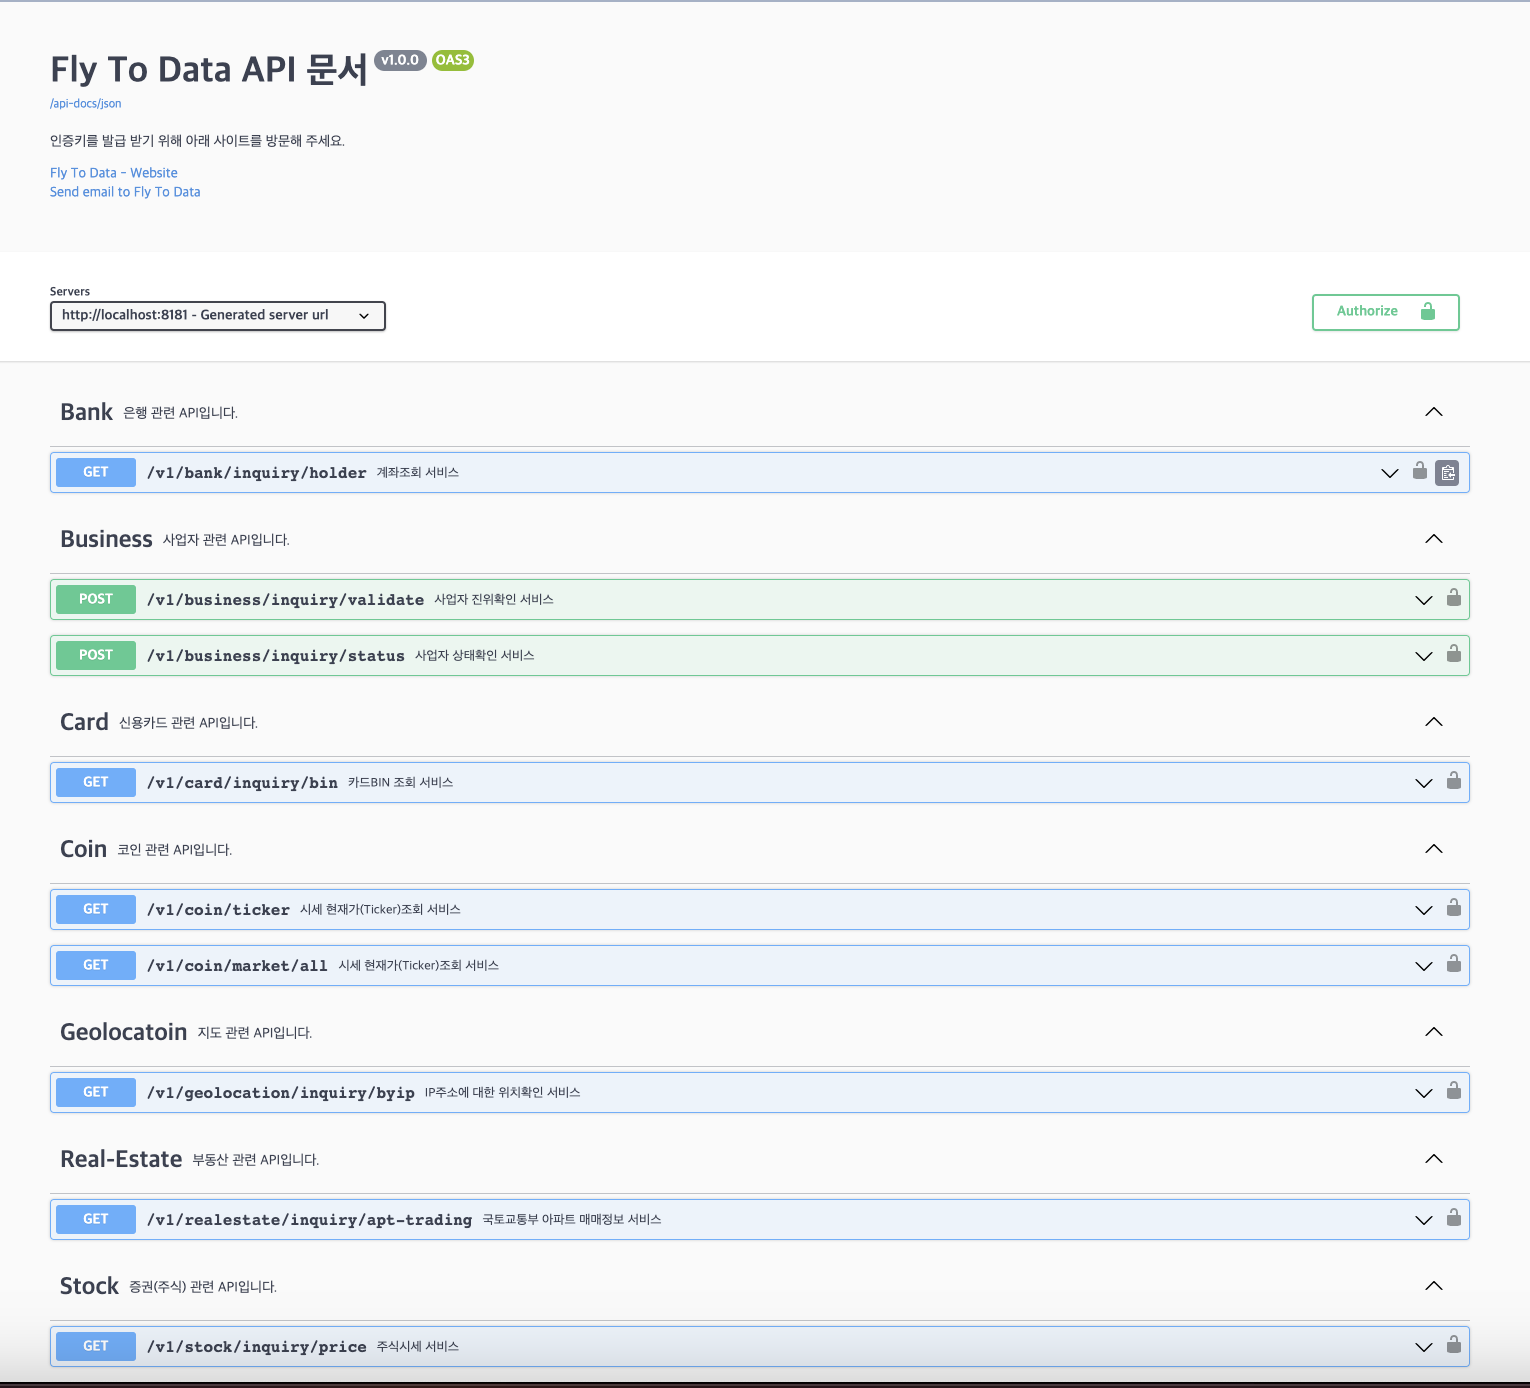
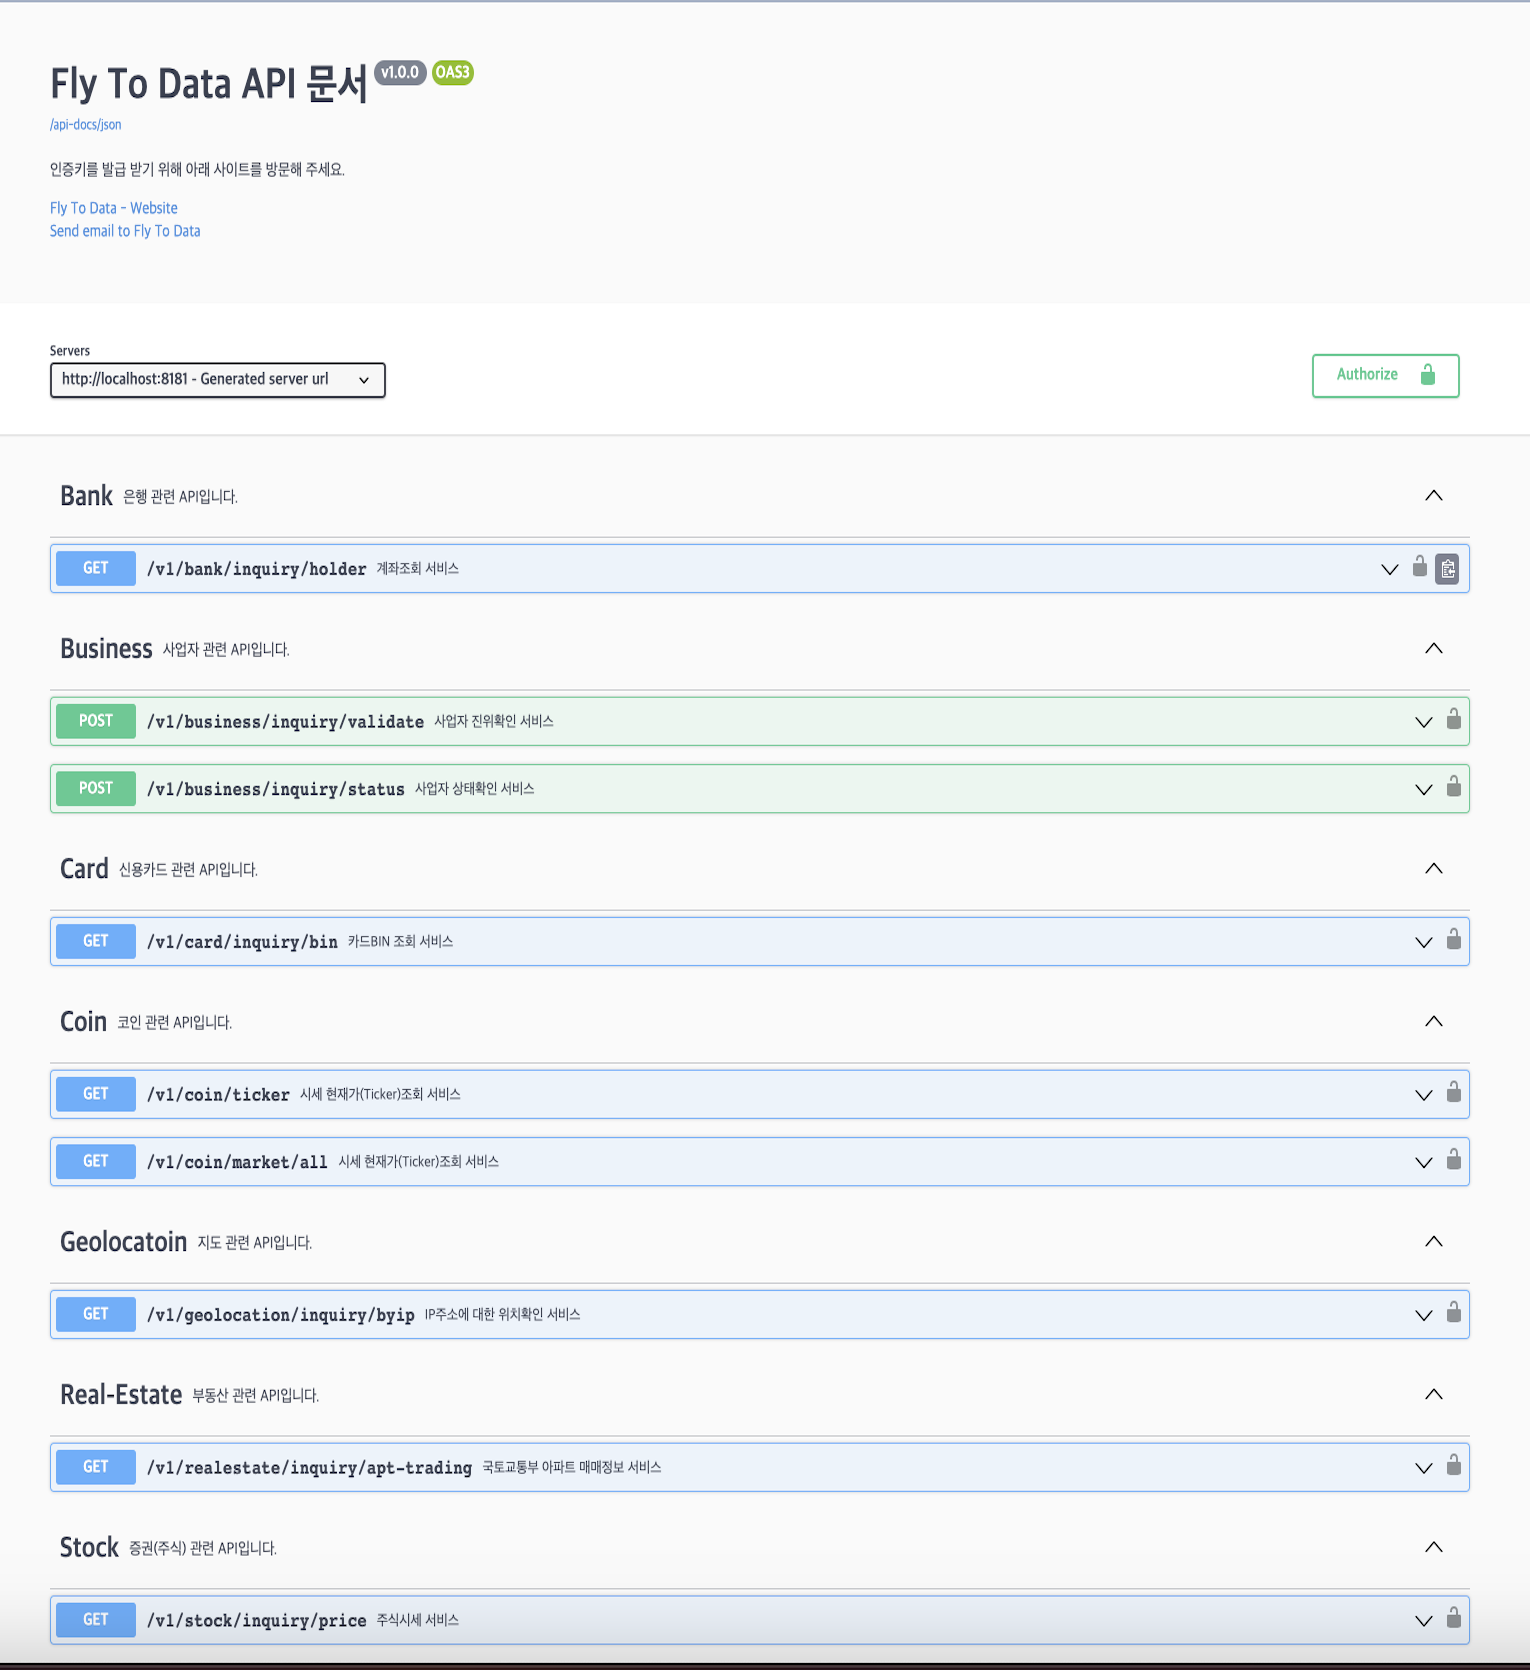
img change

diff --git a/src/main/resources/public/pages/landing.html b/src/main/resources/public/pages/landing.html
@@ -322,7 +322,7 @@
               <h1 class="text-white fw-light">Bring <span class="typed-text fw-bold" data-typed-text='["finance","business","real estate","stock"]'></span><br />data to your app</h1>
               <p class="lead text-white opacity-75">With the api of 'Fly To Data', you can now focus only on functionaries for your business, while leaving us with troublesome task!</p><a class="btn btn-outline-light border-2 rounded-pill btn-lg mt-4 fs-0 py-2" href="#!">Start building with us<span class="fas fa-play ms-2" data-fa-transform="shrink-6 down-1"></span></a>
             </div>
-            <div class="col-xl-7 offset-xl-1 align-self-end mt-4 mt-xl-0"><a class="img-landing-banner rounded" href="../index.html"><img class="img-fluid" src="../assets/img/generic/swagger-list2.png" alt="" /></a></div>
+            <div class="col-xl-7 offset-xl-1 align-self-end mt-4 mt-xl-0"><a class="img-landing-banner rounded" href="../index.html"><img class="img-fluid" src="../assets/img/generic/swagger-list.png" alt="" /></a></div>
           </div>
         </div>
         <!-- end of .container-->
